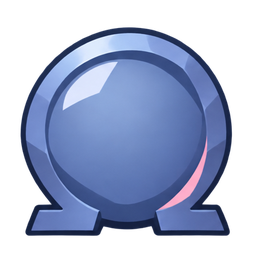
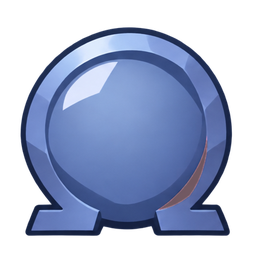
feat: light Saki's counter accents with a shader
31O's sakura accents and bowstring and 30A's azure soul flame were
painted into the counter textures. Like Hotaru's rainbow rim, they are
now light drawn over an unlit base.

- Each counter texture keeps the lit parts' shapes but switched off
  (darker, less saturated); a matching *_glow.png holds the difference,
  so adding it back at full strength gives the original picture.
- hbrgo_saki_energy_glow.gdshader adds that light: 31O's accents breathe
  and 30A's soul flame flickers as noise rises through it. The scythe
  form uses 30A's icon, so it carries the soul flame too.
- The counter swaps the glow texture and material together with the
  icon, creating each material on first use; the glow goes out at zero
  energy.

Godot compiles the shader and imports the new PNGs when the mod is
packaged.

Changed region(s): [[0.625, 0.5312, 0.8125, 0.8438]]

diff --git a/Core/Nodes/Combat/NHBRGOSakiEnergyCounter.cs b/Core/Nodes/Combat/NHBRGOSakiEnergyCounter.cs
@@ -19,8 +19,8 @@ public partial class NHBRGOSakiEnergyCounter : NEnergyCounter
         "res://images/ui/energys/hbrgosaki30a_energy_counter.png";
     private const string HotaruIconPath =
         "res://images/ui/energys/hbrgohotaru_energy_counter.png";
-    private const string HotaruGlowPath =
-        "res://images/ui/energys/hbrgohotaru_energy_counter_glow.png";
+    private const string RainbowShaderPath = "res://shaders/hotaru_energy_glow.gdshader";
+    private const string GlowShaderPath = "res://shaders/hbrgo_saki_energy_glow.gdshader";
 
     private static readonly AccessTools.FieldRef<NEnergyCounter, Player> PlayerField =
         AccessTools.FieldRefAccess<NEnergyCounter, Player>("_player");
@@ -28,6 +28,9 @@ public partial class NHBRGOSakiEnergyCounter : NEnergyCounter
     private TextureRect _icon;
     private TextureRect _glow;
     private string _iconPath;
+    private ShaderMaterial _rainbow;
+    private ShaderMaterial _sakura;
+    private ShaderMaterial _soulFlame;
 
     public override void _Ready()
     {
@@ -43,33 +46,46 @@ public partial class NHBRGOSakiEnergyCounter : NEnergyCounter
         RefreshIcon();
     }
 
+    // Each icon's lit part (31O's sakura accents, 30A's soul flame, Hotaru's rainbow rim)
+    // is a matching *_glow.png drawn by a self-lit shader on %Glow. %Glow sits outside
+    // %Layers because the base counter resets the materials of everything under %Layers,
+    // and it goes out at zero energy, when the base counter darkens the orb.
     private void RefreshIcon()
     {
-        Player player = PlayerField(this);
-        RefreshGlow(player);
-        string path = GetIconPath(player);
-        if (_icon == null || path == _iconPath)
+        if (_icon == null || _glow == null)
         {
             return;
         }
 
-        _iconPath = path;
-        _icon.Texture = ResourceLoader.Load<Texture2D>(path);
+        Player player = PlayerField(this);
+        string path = GetIconPath(player);
+        if (path != _iconPath)
+        {
+            _iconPath = path;
+            _icon.Texture = ResourceLoader.Load<Texture2D>(path);
+            _glow.Texture = ResourceLoader.Load<Texture2D>(path.Replace(".png", "_glow.png"));
+            _glow.Material = GetGlowMaterial(path);
+        }
+
+        _glow.Visible = player?.PlayerCombatState?.Energy > 0;
     }
 
-    // Hotaru's rainbow rim is a self-lit shader layer outside %Layers, because the
-    // base counter resets the materials of everything under %Layers. It goes out at
-    // zero energy, when the base counter darkens the orb.
-    private void RefreshGlow(Player player)
+    private ShaderMaterial GetGlowMaterial(string iconPath) => iconPath switch
     {
-        bool lit = player?.Character is HbrgoHotaru && player.PlayerCombatState?.Energy > 0;
-        if (_glow == null || _glow.Visible == lit)
+        HotaruIconPath => _rainbow ??= CreateGlow(RainbowShaderPath),
+        ThirtyAIconPath => _soulFlame ??= CreateGlow(GlowShaderPath, ("flicker_amount", 0.45f), ("intensity", 1.05f)),
+        _ => _sakura ??= CreateGlow(GlowShaderPath, ("pulse_amount", 0.18f))
+    };
+
+    private static ShaderMaterial CreateGlow(string shaderPath, params (string Name, float Value)[] parameters)
+    {
+        var material = new ShaderMaterial { Shader = ResourceLoader.Load<Shader>(shaderPath) };
+        foreach ((string name, float value) in parameters)
         {
-            return;
+            material.SetShaderParameter(name, value);
         }
 
-        _glow.Texture ??= ResourceLoader.Load<Texture2D>(HotaruGlowPath);
-        _glow.Visible = lit;
+        return material;
     }
 
     // Hotaru shares this scene. 31O follows her combat portrait; the scythe borrows 30A's crescent.
